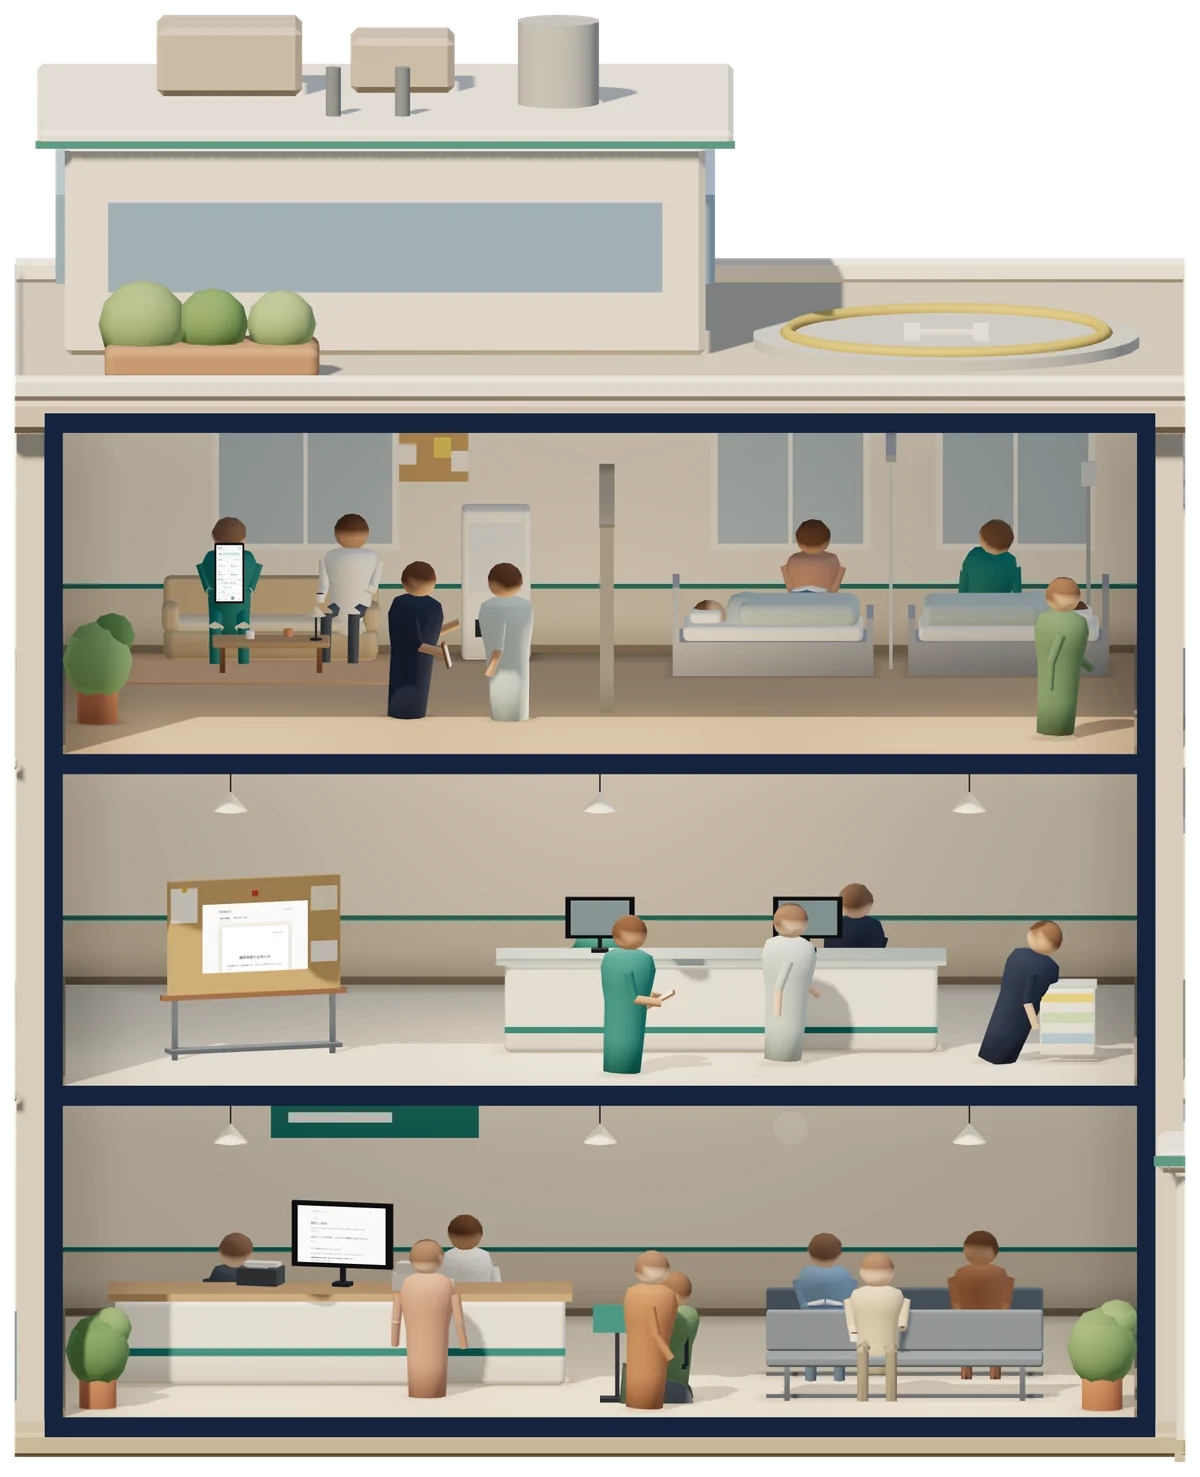
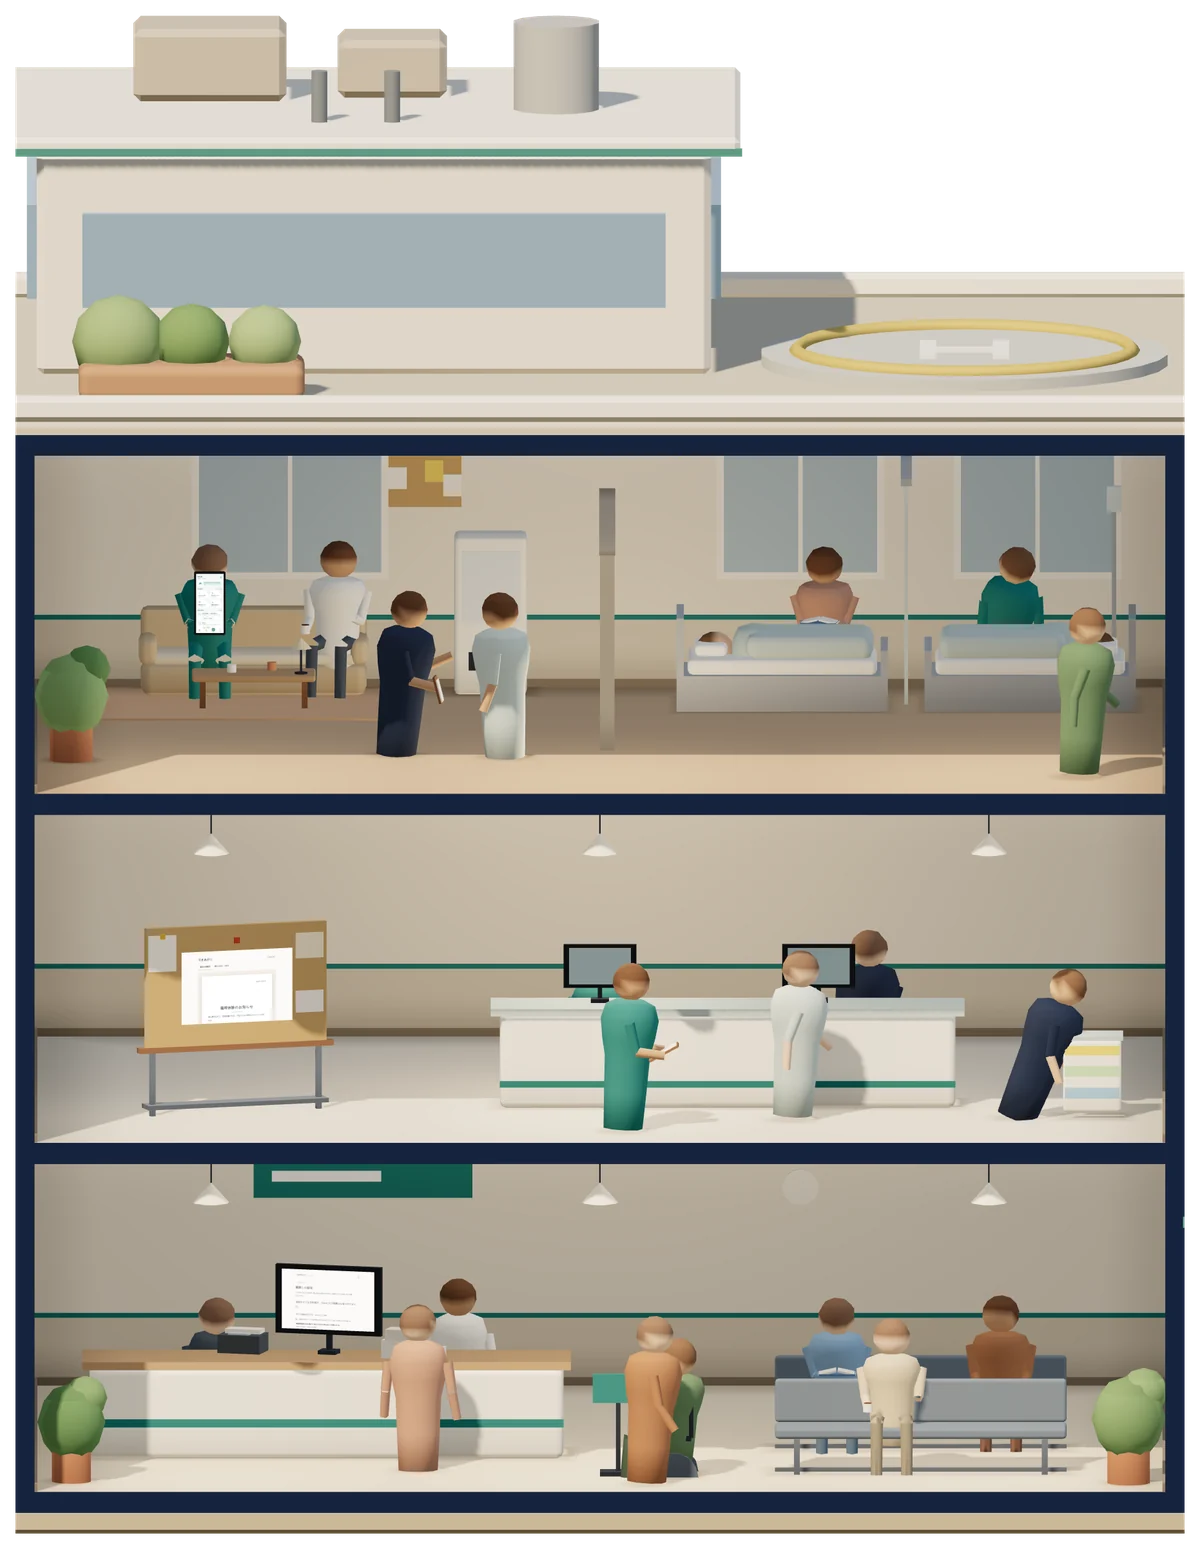
wip(top): 「ひらく町 v4」第2回の見直しを反映(途中保存)
- CT3D: 画素比3で撮り直し、相談の枠のまわりの正方形を右に大きく(灰色の暗幕の面を減らす)。題・t・リンクは左の列
- 棚卸し: 画面を大きく、左の線をページの左に。言いかえ: 語を1行、言いかえた語を大きく
- 第2幕: 2階も夕の光(継ぎ目は1本)、切り口の枠を建物の輪郭に、輪と線の端を写しの外へ。スマホは札を絵の上の各部屋に
- 見出しの帯の固定と夜の色を、スクロールの位置でも決める。?day=1 で断面を昼の1枚に(比べるため)
- 使わなくなった絵(帯の閉じた絵・横長の CT3D)を外す

Claude-Session: https://claude.ai/code/session_016dwt5JPBcjN3XLYgLUEaNS

Changed region(s): [[0.0, 0.0311, 1.0, 0.9966], [0.2158, 0.0, 0.4317, 0.0934], [0.0925, 0.0, 0.1542, 0.0623]]

diff --git a/proto/top-ad/hiraku4/index.html b/proto/top-ad/hiraku4/index.html
@@ -323,17 +323,17 @@ main:focus{outline:none}
 .sect-img{width:100%}
 .act-h{position:absolute;left:0;top:clamp(0px,3vh,32px);width:calc((100 - var(--iw)) * 1cqw - 56px)}
 .act-lead{margin-top:12px;font-size:15px;line-height:1.95;color:var(--ink-2)}
-.pin{position:absolute;left:calc(var(--x) * 1%);top:calc(var(--y) * 1%);width:9px;height:9px;margin:-4.5px 0 0 -4.5px;border-radius:50%;border:1.5px solid var(--ink-3);background:var(--paper)}
-.sect-tags li{position:absolute;left:0;top:calc(var(--y) * 1%);transform:translateY(-50%);width:calc((100 - var(--iw)) * 1cqw - 56px);display:grid;justify-items:end;text-align:right}
-.sect-tags li::after{content:'';position:absolute;left:calc(100% + 10px);top:50%;height:1px;width:calc(46px + var(--x) * var(--iw) / 100 * 1cqw - 4.5px);background:var(--ink-3)}
+.pin{position:absolute;left:calc(var(--x) * 1% - 8.5px);top:calc(var(--y) * 1%);width:9px;height:9px;margin:-4.5px 0 0 -4.5px;border-radius:50%;border:1.5px solid var(--ink-3);background:var(--paper)}   /* 輪の右の端が、写しの縁から 4px 外(写しの上に何も描かない) */
+.sect-tags li{position:absolute;right:calc(100% + 56px);top:calc(var(--y) * 1%);transform:translateY(-50%);width:calc((100 - var(--iw)) * 1cqw - 56px);display:grid;justify-items:end;text-align:right}
+.sect-tags li::after{content:'';position:absolute;left:calc(100% + 10px);top:50%;height:1px;width:calc(46px + var(--x) * var(--iw) / 100 * 1cqw - 13px);background:var(--ink-3)}
 .sect-tags .fl{font-size:11.5px;letter-spacing:.08em;color:var(--ink-3)}
 .sect-tags a{display:inline-flex;align-items:center;min-height:40px;font-size:17px;font-weight:700;color:var(--ink);text-decoration:underline;text-decoration-color:var(--underline-2);text-underline-offset:5px}
 .sect-tags a:hover{text-decoration-color:currentColor}
 .sect-tags .t{font-size:13px;line-height:1.7;color:var(--ink-2)}
 
 /* 言いかえ(第2幕から第3幕への蝶番): 真ん中に。選ぶたびに、砂の下線を一度引く */
-.try{padding-top:20vh;text-align:center}
-.tw-pick{margin:24px auto 0;max-width:660px;display:flex;flex-wrap:wrap;justify-content:center;gap:8px}
+.try{padding-top:160px;text-align:center}
+.tw-pick{margin:24px auto 0;max-width:780px;display:flex;flex-wrap:wrap;justify-content:center;gap:8px}
 .tw-pick[hidden]{display:none}
 .wtag{display:inline-flex;align-items:center;min-height:44px;padding:0 16px;border-radius:22px;border:1px solid var(--line);background:var(--card);font-size:13.5px;font-weight:700;color:var(--ink-2);transition:background-color .2s,color .2s,border-color .2s}
 .wtag:hover{border-color:var(--ink-3);color:var(--ink)}
@@ -341,7 +341,7 @@ main:focus{outline:none}
 .tw-out{margin-top:clamp(34px,6vh,60px)}
 .tw-from{display:block;font-size:15.5px;color:var(--ink-2)}
 .tw-from b{color:var(--ink)}
-.tw-to{position:relative;display:inline-block;margin-top:8px;padding-bottom:14px;font:700 clamp(26px,3.3vw,46px)/1.4 var(--jp);letter-spacing:.03em;color:var(--ink)}
+.tw-to{position:relative;display:inline-block;margin-top:8px;padding-bottom:14px;font:700 clamp(26px,3.9vw,56px)/1.4 var(--jp);letter-spacing:.03em;color:var(--ink)}
 .tw-to::after{content:'';position:absolute;left:0;right:0;bottom:2px;height:3px;border-radius:3px;background:var(--sand);transform-origin:left center;transform:scaleX(0)}
 html:not(.tw-on) .tw-to::after{transform:none}   /* JS なし: 下線は引いたまま */
 html.tw-on .tw-to.draw::after{animation:twDraw .9s var(--ease) .12s forwards}
@@ -353,20 +353,16 @@ html.tw-on .tw-to.draw .tw-to-t{animation:twIn .5s var(--ease) both}
 .try-cta{margin-top:10px;display:flex;flex-wrap:wrap;align-items:center;justify-content:center;gap:0 18px}
 
 /* 第3幕a 経験の棚卸し: 縦長の実際の画面(中くらい)を左に、題と一行とリンクを右下に */
-.tana{padding-top:20vh}
-.tana-in{max-width:1180px;margin:0 auto;display:grid;grid-template-columns:auto minmax(0,1fr);column-gap:clamp(32px,6vw,96px);align-items:end}
+.tana{padding-top:120px}
+.tana-in{max-width:1328px;margin:0 auto;display:grid;grid-template-columns:auto minmax(0,1fr);column-gap:clamp(32px,6vw,96px);align-items:end}
 .tn-shot{margin:0}
-.tn-shot img{height:min(680px,76vh);width:auto;border-radius:6px;box-shadow:0 0 0 1px var(--line)}
+.tn-shot img{height:min(88vh,800px);width:auto;border-radius:6px;box-shadow:0 0 0 1px var(--line)}
 .tn-text{padding-bottom:clamp(40px,9vh,110px)}
 /* 第3幕b クリニックタウン3D: 横長の実際の画面を、ページで最大に(幅いっぱい。1680px より広い画面では真ん中に、左右は紙) */
-.ct{padding:16vh 0 0}
-.ct-h{max-width:1328px;margin:0 auto;padding:0 var(--pad);display:flex;flex-wrap:wrap;align-items:baseline;column-gap:22px}
-.ct-h .tl{margin:0}
-.ct-h .go-line{margin:0 0 0 auto}
-.ct-shot{margin:clamp(16px,3vh,28px) auto 0;max-width:1680px}
-.ct-shot img{width:100%;box-shadow:0 1px 0 var(--line),0 -1px 0 var(--line)}
-.ct-shot .cap{max-width:1328px;margin:10px auto 0;padding:0 var(--pad)}
-@media (min-width:1681px){.ct-shot img{border-radius:6px;box-shadow:0 0 0 1px var(--line)}}
+.ct{padding-top:140px}
+.ct-in{max-width:1328px;margin:0 auto;display:grid;grid-template-columns:minmax(0,1fr) auto;column-gap:clamp(32px,5vw,80px);align-items:center}
+.ct-shot{margin:0}
+.ct-shot img{width:min(62vw,88vh,900px);height:auto;border-radius:6px;box-shadow:0 0 0 1px var(--line)}
 .all-tools{padding-top:16vh;text-align:center}
 
 /* 終幕: 紙 → 夕 → 夜の止まった空(約55vh)。星は夜の部分だけで、動かさない。文字はすべて夜の単色の上 */
@@ -477,21 +473,23 @@ html.past:not(.opened) .logo svg{width:42px}
   .sect{--iw:100}
   .act-h{position:static;width:auto;margin-bottom:22px}
   .sect-pic{width:auto;margin:0 calc(-1 * var(--pad))}
-  .sect-tags{margin-top:14px}
-  .sect-tags li{position:static;transform:none;width:auto;display:block;justify-items:normal;text-align:left;padding:10px 0 12px;border-top:1px solid var(--line)}
+  .sect-tags li{right:auto;left:calc(var(--rx) * 1% + 12px);top:calc(var(--ry) * 1% + 6px);transform:none;width:auto;display:block}
   .sect-tags li::after{content:none}
-  .sect-tags .fl{display:block}
-  .sect-tags a{min-height:36px;font-size:16px}
-  .sect-tags .t{display:block}
-  .try{padding-top:16vh}
+  .sect-tags .fl,.sect-tags .t{position:absolute;width:1px;height:1px;margin:-1px;overflow:hidden;clip:rect(0 0 0 0);white-space:nowrap}   /* 階は読み上げだけ(一行は道具のページにある) */
+  .sect-tags a{position:relative;display:inline-block;min-height:0;padding:3px 6px;border-radius:2px;background:var(--paper);font-size:12px;font-weight:700;line-height:1.4;color:var(--ink);text-decoration:none}
+  .sect-tags a::before{content:'';position:absolute;left:-8px;right:-8px;top:50%;height:44px;margin-top:-22px}   /* 押せる範囲は 44px */
+  .try{padding-top:120px}
   .tana{padding-top:16vh}
+  .ct{padding:16vh 0 0}
+  .ct-in{display:block}
+  .ct-h{padding:0 var(--pad)}
+  .ct-shot{margin-top:18px}
+  .ct-shot img{width:100%;border-radius:0;box-shadow:0 1px 0 var(--line),0 -1px 0 var(--line)}
+  .ct-shot .cap{padding:0 var(--pad)}
   .tana-in{grid-template-columns:minmax(0,1fr)}
   .tn-text{order:-1;padding-bottom:0;margin-bottom:22px}
   .tn-shot{width:68%;margin-left:auto}
   .tn-shot img{height:auto;width:100%}
-  .ct-h{display:block}
-  .ct-h .tl{margin-top:8px}
-  .ct-h .go-line{margin-top:6px}
   .dusk{height:60svh}
   .far{width:76vw;margin-top:-8vh}
   .foot-in{grid-template-columns:repeat(2,minmax(0,1fr));gap:22px 16px}
@@ -624,14 +622,14 @@ html.capture body > *:not(#cap){display:none!important}
         <p class="act-lead"><span class="ph">上の階は昼、</span><span class="ph">下の階は夕方。</span><span class="ph">3つの道具を、</span><span class="ph">置いてみました。</span></p>
       </div>
       <div class="sect-pic">
-        <img class="sect-img" src="img/sect-1200.webp" srcset="img/sect-800.webp 800w, img/sect-1200.webp 1200w, img/sect-1600.webp 1600w" sizes="(max-width: 920px) 100vw, 56vw" width="1600" height="1969" alt="模型の町の病院を、正面から切った断面。3階は休憩室と病室、2階はナースステーション、1階は受付と待合。上の階は昼の光、下の階は夕方の光。休憩室で人が持つスマホにやわ返、2階の掲示板に掲示じたく、受付の画面に二度手間さがしの実際の画面が映っている" loading="lazy" decoding="async">
-        <i class="pin" style="--x:18.03;--y:38.83" aria-hidden="true"></i><i class="pin" style="--x:16.88;--y:63.45" aria-hidden="true"></i><i class="pin" style="--x:24.81;--y:82.1" aria-hidden="true"></i>
+        <img class="sect-img" id="sectImg" src="img/sect-1200.webp" srcset="img/sect-800.webp 800w, img/sect-1200.webp 1200w, img/sect-1600.webp 1600w" sizes="(max-width: 920px) 100vw, 56vw" width="1600" height="2065" alt="模型の町の病院を、正面から切った断面。3階は休憩室と病室、2階はナースステーション、1階は受付と待合。3階は昼の光、2階と1階は夕方の光。休憩室で人が持つスマホにやわ返、2階の掲示板に掲示じたく、受付の画面に二度手間さがしの実際の画面が映っている" loading="lazy" decoding="async">
+        <i class="pin" style="--x:16.35;--y:38.97" aria-hidden="true"></i><i class="pin" style="--x:15.13;--y:63.69" aria-hidden="true"></i><i class="pin" style="--x:23.49;--y:82.35" aria-hidden="true"></i>
+        <ol class="sect-tags" aria-label="この断面の道具">
+          <li style="--x:16.35;--y:38.97;--rx:2.85;--ry:29.42"><span class="fl">3階 休憩室</span><a href="../../../yawagaeshi/index.html">やわ返</a><span class="t">角の立たない返信案を、3つつくる</span></li>
+          <li style="--x:15.13;--y:63.69;--rx:2.85;--ry:52.6"><span class="fl">2階 ナースステーション</span><a href="../../../keiji/index.html">掲示じたく</a><span class="t">院内掲示を、選んで埋めるだけ</span></li>
+          <li style="--x:23.49;--y:82.35;--rx:2.85;--ry:75.16"><span class="fl">1階 受付</span><a href="../../../nidodema/index.html">二度手間さがし</a><span class="t">部署の手作業を、減らせるものと守るものに分ける</span></li>
+        </ol>
       </div>
-      <ol class="sect-tags" aria-label="この断面の道具">
-        <li style="--x:18.03;--y:38.83"><span class="fl">3階 休憩室</span><a href="../../../yawagaeshi/index.html">やわ返</a><span class="t">角の立たない返信案を、3つつくる</span></li>
-        <li style="--x:16.88;--y:63.45"><span class="fl">2階 ナースステーション</span><a href="../../../keiji/index.html">掲示じたく</a><span class="t">院内掲示を、選んで埋めるだけ</span></li>
-        <li style="--x:24.81;--y:82.1"><span class="fl">1階 受付</span><a href="../../../nidodema/index.html">二度手間さがし</a><span class="t">部署の手作業を、減らせるものと守るものに分ける</span></li>
-      </ol>
     </figure>
   </div>
 </section>
@@ -670,15 +668,17 @@ html.capture body > *:not(#cap){display:none!important}
 </section>
 
 <section class="act ct" id="clinic-town" aria-labelledby="ctTitle">
-  <div class="ct-h">
-    <h2 id="ctTitle">クリニックタウン3D</h2>
-    <p class="tl">クリニック経営を、1日ずつ動かして学ぶ</p>
-    <p class="go-line"><a class="tx" href="../../../clinic-flow-3d/index.html" data-leap="clinic-flow-3d">ゲームを始める<svg class="ico" viewBox="0 0 24 24" aria-hidden="true"><path d="M5 12h14M13 6l6 6-6 6"/></svg></a><span class="meta2">いまの版 v99.3・無料・登録不要</span></p>
+  <div class="ct-in">
+    <div class="ct-h">
+      <h2 id="ctTitle">クリニックタウン3D</h2>
+      <p class="tl">クリニック経営を、1日ずつ動かして学ぶ</p>
+      <p class="go-line"><a class="tx" href="../../../clinic-flow-3d/index.html" data-leap="clinic-flow-3d">ゲームを始める<svg class="ico" viewBox="0 0 24 24" aria-hidden="true"><path d="M5 12h14M13 6l6 6-6 6"/></svg></a><span class="meta2">いまの版 v99.3・無料・登録不要</span></p>
+    </div>
+    <figure class="ct-shot">
+      <a href="../../../clinic-flow-3d/index.html" data-leap="clinic-flow-3d" tabindex="-1" aria-hidden="true"><picture><source media="(max-width: 920px)" srcset="img/ct3d-consult-sp45.webp" width="780" height="975"><img src="img/ct3d-consult-sq-1240.webp" srcset="img/ct3d-consult-sq-1240.webp 1240w, img/ct3d-consult-sq.webp 1860w" sizes="min(62vw, 88vh, 900px)" width="1860" height="1860" alt="" loading="lazy" decoding="async"></picture></a>
+      <figcaption class="cap">6日目に届く相談の画面。3つの方針から1つを選ぶ(2026-10-25 撮影・v99.3)</figcaption>
+    </figure>
   </div>
-  <figure class="ct-shot">
-    <a href="../../../clinic-flow-3d/index.html" data-leap="clinic-flow-3d" tabindex="-1" aria-hidden="true"><picture><source media="(max-width: 920px)" srcset="img/ct3d-consult-sp45.webp" width="780" height="975"><img src="img/ct3d-consult-pc-1440.webp" srcset="img/ct3d-consult-pc-1440.webp 1440w, img/ct3d-consult-pc.webp 2880w" sizes="(max-width: 1680px) 100vw, 1680px" width="2880" height="1800" alt="" loading="lazy" decoding="async"></picture></a>
-    <figcaption class="cap">6日目に届く相談の画面。3つの方針から1つを選ぶ(2026-10-25 撮影・v99.3)</figcaption>
-  </figure>
 </section>
 
 <p class="act all-tools"><a class="all" href="../../../products/index.html">すべての道具を一覧で見る<span class="n">29点</span><svg class="ico" viewBox="0 0 24 24" aria-hidden="true"><path d="M5 12h14M13 6l6 6-6 6"/></svg></a></p>

diff --git a/proto/top-ad/hiraku4/hiraku.js b/proto/top-ad/hiraku4/hiraku.js
@@ -593,6 +593,14 @@ function boot() {
   const idle = f => (window.requestIdleCallback ? requestIdleCallback(f, { timeout: 1500 }) : setTimeout(f, 300));
   if (document.readyState === 'complete') idle(upgrade); else addEventListener('load', () => idle(upgrade));
 
+  /* ---------- 比べるための版(?day=1): 第2幕の断面を、階ごとに継がない昼の1枚にする(社長の判断用。既定は上=昼・下=夕) ---------- */
+  const sectImg = $('#sectImg');
+  if (sectImg && Q.get('day') === '1') {
+    sectImg.srcset = sectImg.srcset.replace(/sect-(\d+)/g, 'sect-day-$1'); sectImg.src = sectImg.src.replace(/sect-(\d+)/, 'sect-day-$1');
+    sectImg.alt = sectImg.alt.replace('3階は昼の光、2階と1階は夕方の光。', 'どの階も昼の光。');
+    const lead = $('#day .act-lead'); if (lead) lead.textContent = '3つの道具を、置いてみました。';
+  }
+
   /* ---------- 第3幕: 実際の画面(と、その横のリンク)を押すと、その画面が広がって道具になる(町の入口と同じ 280ms。動きを減らす設定では動かさない) ---------- */
   for (const a of $$('a[data-leap]')) {
     const t = TOOLS[a.dataset.leap]; if (!t) continue;
@@ -605,7 +613,7 @@ function boot() {
   const finIn = $('.fin-in');
   if (finIn) {
     let q = 0;
-    const upd = () => { q = 0; R.classList.toggle('hd-night', finIn.getBoundingClientRect().top < 60); };
+    const upd = () => { q = 0; R.classList.toggle('hd-night', finIn.getBoundingClientRect().top < 60); if (!openId) R.classList.toggle('past', hero.getBoundingClientRect().bottom < 72); };   // 固定の見出しの帯も位置で(一気に下へ移ったときも出す。ひらいている間は、町の側に任せる)
     const req = () => { if (!q) q = requestAnimationFrame(upd); };
     addEventListener('scroll', req, { passive: true }); addEventListener('resize', req); upd();
   }

diff --git a/proto/top-ad/hiraku4/live.js b/proto/top-ad/hiraku4/live.js
@@ -105,7 +105,7 @@ export async function capture(Q) {
     const spin = sect ? deg(45) - pl.yaw : deg(pl.face - 45), el = sect ? deg(+(Q.get('el') ?? 8)) : cut === 'park' ? deg(17) : deg(26);
     S.world.rotation.y = spin; S.world.updateMatrixWorld(true);
     if (sect) {   // 断面は主棟だけ: 横の壁の外側で切る(右の別棟と、左の車寄せを外す)。島のグループの回転だけを掛けた、世界の座標の面
-      const X1 = bx.w / 2 + E + WALL + .006, ax = new THREE.Vector3(1, 0, 0).applyAxisAngle(new THREE.Vector3(0, 1, 0), spin + pl.yaw);
+      const X1 = bx.w / 2 + E + WALL - .002, ax = new THREE.Vector3(1, 0, 0).applyAxisAngle(new THREE.Vector3(0, 1, 0), spin + pl.yaw);
       renderer.clippingPlanes = [new THREE.Plane(ax.clone().negate(), X1), new THREE.Plane(ax.clone(), X1)];
     }
     aimCamera(camera, new THREE.Vector3(), el);
